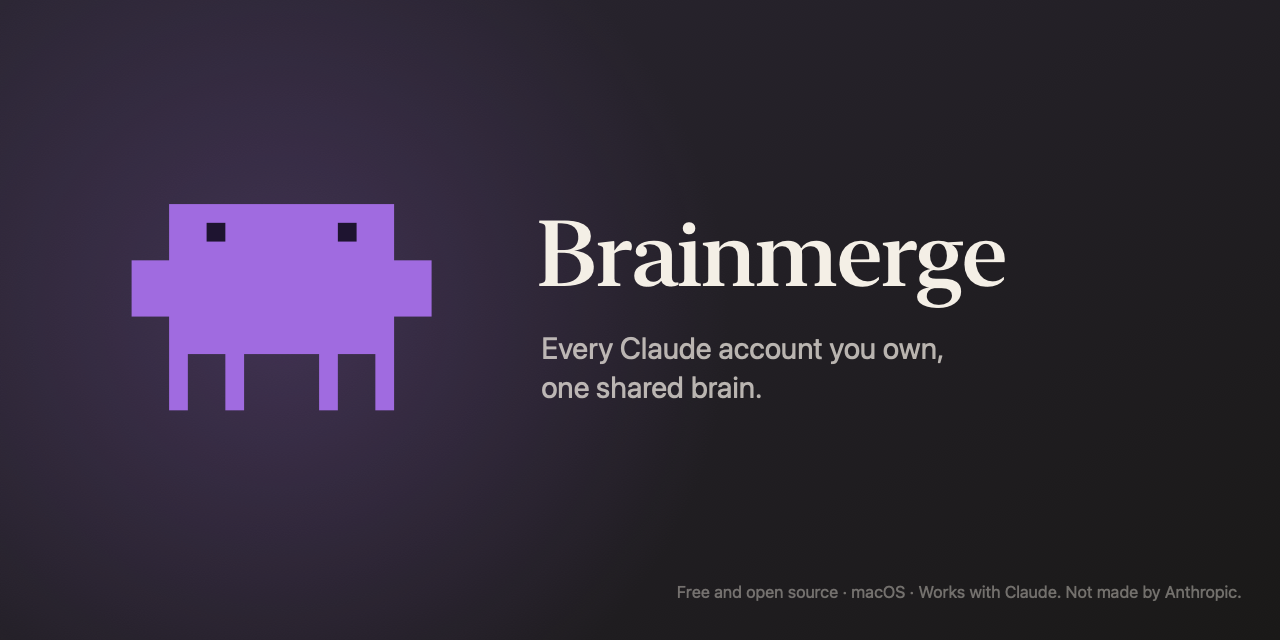
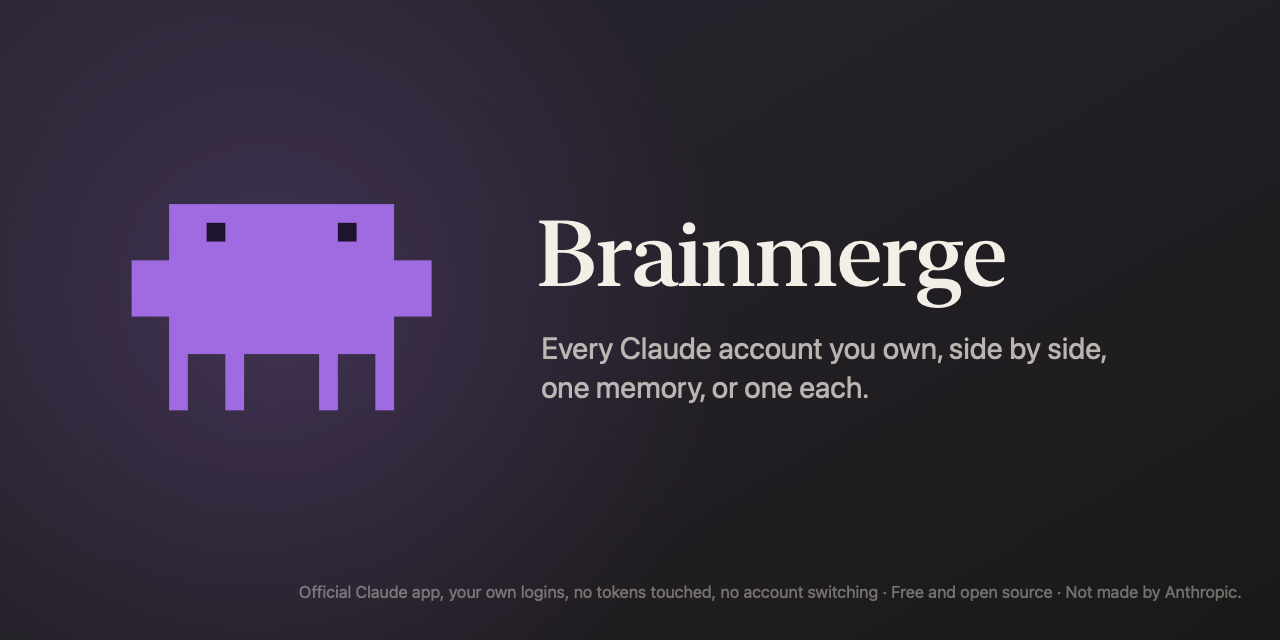
Security pass: guard tests that keep the tree free of networking, shells and credential reads; names kept to one clean line everywhere; a launcher that only starts Claude; no copy of a Claude with a broken signature; Dependabot and read-only CI; SECURITY.md that says what the app touches; a trust se

Changed region(s): [[0.2188, 0.9062, 0.8438, 0.9375], [0.4688, 0.5938, 0.6875, 0.625], [0.7188, 0.5312, 0.875, 0.5625]]

diff --git a/Packages/BrainmergeCore/Sources/BrainmergeCore/Identity/IdentityManager.swift b/Packages/BrainmergeCore/Sources/BrainmergeCore/Identity/IdentityManager.swift
@@ -59,18 +59,20 @@ public final class IdentityManager: @unchecked Sendable {
     public func add(_ request: AddRequest) throws -> Identity {
         var state = try store.load()
         _ = try configuredBrain(state)
-        try ensureNameAvailable(request.name, excluding: nil, in: state)
+        let name = NameRules.clean(request.name)
+        guard !name.isEmpty else { throw BrainmergeError.nameInvalid }
+        try ensureNameAvailable(name, excluding: nil, in: state)
         if let id = request.brain, state.brain(id: id) == nil { throw BrainmergeError.brainUnknown(id) }
         let claude = try ClaudeApp.detect(at: claudeAppURL)
-        var identity = Identity(slug: IdentitySlug.make(from: request.name, taken: state.takenSlugs),
-                                name: request.name, tint: request.tint, logoPath: request.logo?.path, note: request.note,
+        var identity = Identity(slug: IdentitySlug.make(from: name, taken: state.takenSlugs),
+                                name: name, tint: request.tint, logoPath: request.logo?.path, note: request.note.map(NameRules.clean),
                                 surfaces: request.surfaces, iconMode: request.iconMode,
                                 sharedHistory: request.sharedHistory,
                                 cliProfilePath: request.adoptCLIProfile?.path,
                                 desktopDataPath: request.adoptDesktopData?.path,
                                 brain: request.brain)
         if request.ownBrain {
-            identity.brain = try addBrain(name: request.name, path: nil, language: state.brainLanguage, in: &state).id
+            identity.brain = try addBrain(name: name, path: nil, language: state.brainLanguage, in: &state).id
         }
 
         // The CLI profile also serves the Desktop app's Code tab: it always exists.
@@ -96,7 +98,11 @@ public final class IdentityManager: @unchecked Sendable {
     public func update(slug: String, name: String?, tint: Tint?, logo: URL?, note: String? = nil, iconMode: IconMode? = nil, clearLogo: Bool = false) throws -> Identity {
         var state = try store.load()
         guard var identity = state.identity(slug: slug) else { throw BrainmergeError.identityNotFound(slug) }
-        if let name { try ensureNameAvailable(name, excluding: slug, in: state) }
+        let name = name.map(NameRules.clean)
+        if let name {
+            guard !name.isEmpty else { throw BrainmergeError.nameInvalid }
+            try ensureNameAvailable(name, excluding: slug, in: state)
+        }
         try ensureStopped(identity)
         let fm = FileManager.default
         let oldName = identity.bundleDisplayName
@@ -104,7 +110,7 @@ public final class IdentityManager: @unchecked Sendable {
         if let tint { identity.tint = tint }
         if let logo { identity.logoPath = logo.path }
         if clearLogo { identity.logoPath = nil }
-        if let note { identity.note = note }
+        if let note { identity.note = NameRules.clean(note) }
         if let iconMode { identity.iconMode = iconMode }
         try attachBrain(to: identity, state: state)
         if identity.surfaces.desktop, !identity.isPrimary {
@@ -190,7 +196,7 @@ public final class IdentityManager: @unchecked Sendable {
     }
 
     func addBrain(name: String, path: URL?, language: BrainLanguage, in state: inout AppState) throws -> MemoryFolder {
-        let clean = name.trimmingCharacters(in: .whitespaces)
+        let clean = NameRules.clean(name)
         if clean.isEmpty { throw BrainmergeError.brainNameEmpty }
         if let taken = state.brains.first(where: { $0.name.caseInsensitiveCompare(clean) == .orderedSame }) {
             throw BrainmergeError.brainNameTaken(taken.name)
@@ -218,7 +224,7 @@ public final class IdentityManager: @unchecked Sendable {
     public func renameBrain(id: String, name: String) throws {
         var state = try store.load()
         guard let index = state.brains.firstIndex(where: { $0.id == id }) else { throw BrainmergeError.brainUnknown(id) }
-        let clean = name.trimmingCharacters(in: .whitespaces)
+        let clean = NameRules.clean(name)
         if clean.isEmpty { throw BrainmergeError.brainNameEmpty }
         if let taken = state.brains.first(where: { $0.id != id && $0.name.caseInsensitiveCompare(clean) == .orderedSame }) {
             throw BrainmergeError.brainNameTaken(taken.name)

diff --git a/Packages/BrainmergeCore/Tests/BrainmergeCoreTests/SecurityGuardTests.swift b/Packages/BrainmergeCore/Tests/BrainmergeCoreTests/SecurityGuardTests.swift
@@ -1,0 +1,63 @@
+import Foundation
+import Testing
+@testable import BrainmergeCore
+
+/// The promises of the README, enforced on the source tree: no network, no shell interpreter, no reading of
+/// Claude's credential stores, one place that runs processes. A failure here is a broken promise, not a style nit.
+@Suite struct SecurityGuardTests {
+    static let repo = URL(fileURLWithPath: #filePath).deletingLastPathComponent().deletingLastPathComponent()
+        .deletingLastPathComponent().deletingLastPathComponent().deletingLastPathComponent()
+    /// The shipped code: the core, the command line, the launcher, the app. Test fakes (BrainmergeTestSupport) are not shipped.
+    static let roots = ["Packages/BrainmergeCore/Sources/BrainmergeCore", "Packages/BrainmergeCore/Sources/brainmerge",
+                        "Packages/BrainmergeCore/Sources/launcher", "Packages/BrainmergeUI/Sources", "App"].map { repo.appending(path: $0) }
+
+    static func sources() throws -> [(URL, String)] {
+        var files: [(URL, String)] = []
+        for root in roots {
+            guard let enumerator = FileManager.default.enumerator(at: root, includingPropertiesForKeys: nil) else { continue }
+            for case let url as URL in enumerator where url.pathExtension == "swift" {
+                files.append((url, try String(contentsOf: url, encoding: .utf8)))
+            }
+        }
+        #expect(files.count > 40, "the scan must see the whole tree")
+        return files
+    }
+
+    func offenders(_ patterns: [String], except allowed: Set<String> = []) throws -> [String] {
+        var found: [String] = []
+        for (url, text) in try Self.sources() where !allowed.contains(url.lastPathComponent) {
+            for (number, line) in text.split(separator: "\n", omittingEmptySubsequences: false).enumerated()
+            where patterns.contains(where: { line.contains($0) }) && !line.trimmingCharacters(in: .whitespaces).hasPrefix("//") {
+                found.append("\(url.lastPathComponent):\(number + 1): \(line.trimmingCharacters(in: .whitespaces).prefix(80))")
+            }
+        }
+        return found
+    }
+
+    @Test func noNetworkCode() throws {
+        let hits = try offenders(["URLSession", "NWConnection", "import Network", "CFNetwork", "NSURLConnection", "URLProtocol", "WebSocket"])
+        #expect(hits.isEmpty, "\(hits)")
+    }
+
+    @Test func noShellInterpreterAndOneProcessRunner() throws {
+        let shells = try offenders(["/bin/sh", "/bin/bash", "/bin/zsh", "NSAppleScript", "osascript", "system(\"", "popen("])
+        #expect(shells.isEmpty, "\(shells)")
+        let processes = try offenders(["Process()", "NSTask", "posix_spawn"], except: ["Shell.swift"])
+        #expect(processes.isEmpty, "\(processes)")
+    }
+
+    @Test func credentialStoresAreNamedNeverRead() throws {
+        // Only DesktopSession may mention Claude's storage files, and it may only test their presence.
+        let mentions = try offenders(["\"Cookies\"", "Local Storage", "IndexedDB", "Session Storage", "SecItemCopyMatching", "SecKeychain", ".credentials.json", "sessionKey"], except: ["DesktopSession.swift"])
+        #expect(mentions.isEmpty, "\(mentions)")
+        let session = try #require(try Self.sources().first { $0.0.lastPathComponent == "DesktopSession.swift" }).1
+        for forbidden in ["Data(contentsOf", "String(contentsOf", "FileHandle", "contents(atPath", "InputStream"] {
+            #expect(!session.contains(forbidden), "DesktopSession must not read file contents: \(forbidden)")
+        }
+    }
+
+    @Test func noTelemetryOrAnalytics() throws {
+        let hits = try offenders(["Analytics", "Telemetry", "Sentry", "Crashlytics", "Firebase", "Mixpanel"])
+        #expect(hits.isEmpty, "\(hits)")
+    }
+}

diff --git a/Packages/BrainmergeCore/Tests/BrainmergeCoreTests/LauncherBuilderTests.swift b/Packages/BrainmergeCore/Tests/BrainmergeCoreTests/LauncherBuilderTests.swift
@@ -54,4 +54,24 @@ import BrainmergeTestSupport
         #expect(try JSONDecoder().decode(LauncherConfig.self, from: data).claudeExecutable == claude2.executable.path)
         #expect(try FileManager.default.contentsOfDirectory(atPath: home.paths.launchersDir.path) == ["Client.app"])
     }
+
+    @Test func launcherRefusesToStartAnythingButClaude() throws {
+        let home = try TempHome(); defer { home.remove() }
+        let claude = try FakeClaudeApp.make(in: home.url)
+        let identity = Identity(slug: "client", name: "Client")
+        let app = try LauncherBuilder(paths: home.paths, launcherBinary: Products.launcher)
+            .build(for: identity, claude: claude, icon: nil, register: false)
+        // Someone rewrites the launcher's config to point at another program: the launcher says no.
+        let config = LauncherConfig(configDir: home.paths.cliProfile(slug: "client", isPrimary: false).path,
+                                    dataDir: home.paths.desktopData(slug: "client", isPrimary: false).path,
+                                    claudeExecutable: "/bin/echo")
+        try JSONEncoder().encode(config).write(to: app.appending(path: "Contents/Resources/brainmerge.json"), options: .atomic)
+        let result = try Shell().run(app.appending(path: "Contents/MacOS/launcher").path, [])
+        #expect(result.status == 3)
+        #expect(result.stderr.contains("only starts Claude"))
+        // Relative folders are refused as well.
+        let relative = LauncherConfig(configDir: "../elsewhere", dataDir: config.dataDir, claudeExecutable: claude.executable.path)
+        try JSONEncoder().encode(relative).write(to: app.appending(path: "Contents/Resources/brainmerge.json"), options: .atomic)
+        #expect(try Shell().run(app.appending(path: "Contents/MacOS/launcher").path, []).status == 3)
+    }
 }

diff --git a/Packages/BrainmergeCore/Tests/BrainmergeCoreTests/NameRulesTests.swift b/Packages/BrainmergeCore/Tests/BrainmergeCoreTests/NameRulesTests.swift
@@ -1,0 +1,28 @@
+import Foundation
+import Testing
+import BrainmergeTestSupport
+@testable import BrainmergeCore
+
+/// Names end up in file names, plists, git authors and Claude's instructions: one line, no control characters, bounded.
+@Suite struct NameRulesTests {
+    @Test func namesAreOneCleanLine() {
+        #expect(NameRules.clean("  Work\nAccount  ") == "Work Account")
+        #expect(NameRules.clean("Tab\there\u{0}") == "Tab here")
+        #expect(NameRules.clean("...Hidden") == "Hidden")
+        #expect(NameRules.clean(String(repeating: "a", count: 100)).count == NameRules.maxLength)
+        #expect(NameRules.clean("Élodie et Cie") == "Élodie et Cie")
+        #expect(NameRules.clean(" \n ").isEmpty)
+    }
+
+    @Test func theManagerCleansAndRefusesEmptyNames() throws {
+        let e = try ManagerEnv.make(); defer { e.home.remove() }
+        _ = try e.manager.adoptPrimary(name: "Perso")
+        #expect(throws: BrainmergeError.nameInvalid) { try e.manager.add(IdentityManager.AddRequest(name: " \n ")) }
+        let identity = try e.manager.add(IdentityManager.AddRequest(name: "Work\nStudio"))
+        #expect(identity.name == "Work Studio" && identity.slug == "work-studio")
+        #expect(FileManager.default.fileExists(atPath: e.home.paths.launcherApp(name: "Work Studio").path))
+        #expect(throws: BrainmergeError.nameInvalid) { try e.manager.update(slug: identity.slug, name: "  ", tint: nil, logo: nil) }
+        let folder = try e.manager.addBrain(name: " Client\r\nNotes ", path: nil, language: .en)
+        #expect(folder.name == "Client Notes" && folder.id == "client-notes")
+    }
+}

diff --git a/scripts/make-brand.swift b/scripts/make-brand.swift
@@ -89,10 +89,10 @@ func drawBanner(_ r: NSRect, creatureSize: CGFloat, title: CGFloat, tagline: CGF
     let x = r.width * 0.42
     let titleFont = serif(title)
     text("Brainmerge", font: titleFont, color: cream, at: NSPoint(x: x, y: r.midY + r.height * 0.02))
-    text("Every Claude account you own,", font: NSFont.systemFont(ofSize: tagline), color: cream.withAlphaComponent(0.72), at: NSPoint(x: x + 4, y: r.midY - tagline * 1.5))
-    text("one shared brain.", font: NSFont.systemFont(ofSize: tagline), color: cream.withAlphaComponent(0.72), at: NSPoint(x: x + 4, y: r.midY - tagline * 2.8))
+    text("Every Claude account you own, side by side,", font: NSFont.systemFont(ofSize: tagline), color: cream.withAlphaComponent(0.72), at: NSPoint(x: x + 4, y: r.midY - tagline * 1.5))
+    text("one memory, or one each.", font: NSFont.systemFont(ofSize: tagline), color: cream.withAlphaComponent(0.72), at: NSPoint(x: x + 4, y: r.midY - tagline * 2.8))
     let small = NSFont.systemFont(ofSize: tagline * 0.55)
-    let note = "Free and open source · macOS · Works with Claude. Not made by Anthropic."
+    let note = "Official Claude app, your own logins, no tokens touched, no account switching · Free and open source · Not made by Anthropic."
     text(note, font: small, color: cream.withAlphaComponent(0.4), at: NSPoint(x: r.width - textWidth(note, font: small) - r.height * 0.06, y: r.height * 0.06))
 }
 try save(bitmap(1280, 640) { r in drawBanner(r, creatureSize: 300, title: 92, tagline: 30) }, "docs/brand/banner-1280x640.png")

diff --git a/Packages/BrainmergeCore/Tests/BrainmergeCoreTests/TintedCloneBuilderTests.swift b/Packages/BrainmergeCore/Tests/BrainmergeCoreTests/TintedCloneBuilderTests.swift
@@ -43,4 +43,19 @@ import BrainmergeTestSupport
         _ = try builder.build(for: identity, claude: claude, icon: icon, register: false)
         #expect(try FileManager.default.contentsOfDirectory(atPath: home.paths.launchersDir.path) == ["Client (Claude).app"])
     }
+
+    @Test func aClaudeWithABrokenSignatureIsNeverCopied() throws {
+        let home = try TempHome(); defer { home.remove() }
+        let claude = try FakeClaudeApp.make(in: home.url)
+        // Signed, then tampered with: the signature no longer matches the binary.
+        try Shell().check("/usr/bin/codesign", ["--force", "--sign", "-", claude.url.path])
+        let handle = try FileHandle(forWritingTo: claude.executable)
+        try handle.seekToEnd(); handle.write(Data("\n# tampered\n".utf8)); try handle.close()
+        let builder = TintedCloneBuilder(paths: home.paths, launcherBinary: Products.launcher)
+        let icon = try FakeIcon.orangePNG(in: home.url)
+        #expect(throws: BrainmergeError.claudeAppTampered(claude.url.path)) {
+            try builder.build(for: Identity(slug: "client", name: "Client"), claude: claude, icon: icon, register: false)
+        }
+        #expect(!FileManager.default.fileExists(atPath: home.paths.tintedClone(name: "Client").path))
+    }
 }

diff --git a/Packages/BrainmergeCore/Sources/launcher/main.swift b/Packages/BrainmergeCore/Sources/launcher/main.swift
@@ -18,6 +18,15 @@ guard let data = try? Data(contentsOf: configURL),
     exit(2)
 }
 
+// This launcher starts Claude and nothing else: the executable must be a Claude binary inside an app bundle,
+// and the folders must be absolute. A rewritten config cannot turn it into a launcher for another program.
+let claudeBinary = config.claudeExecutable.hasSuffix("/Contents/MacOS/Claude") || config.claudeExecutable.hasSuffix("/Contents/MacOS/Claude-bin")
+guard config.claudeExecutable.hasPrefix("/"), claudeBinary, config.configDir.hasPrefix("/"), config.dataDir.hasPrefix("/"),
+      !config.configDir.contains("/../"), !config.dataDir.contains("/../"), !config.claudeExecutable.contains("/../") else {
+    FileHandle.standardError.write(Data("brainmerge launcher: this launcher only starts Claude; refusing \(config.claudeExecutable) with \(config.configDir) and \(config.dataDir)\n".utf8))
+    exit(3)
+}
+
 setenv("CLAUDE_CONFIG_DIR", config.configDir, 1)
 let arguments = [config.claudeExecutable, "--user-data-dir=\(config.dataDir)"] + CommandLine.arguments.dropFirst()
 let cArguments: [UnsafeMutablePointer<CChar>?] = arguments.map { strdup($0) } + [nil]

diff --git a/Packages/BrainmergeCore/Sources/BrainmergeCore/Model/NameRules.swift b/Packages/BrainmergeCore/Sources/BrainmergeCore/Model/NameRules.swift
@@ -1,0 +1,22 @@
+import Foundation
+
+/// Names of accounts and memories end up in file names, plists, git authors and Claude's instructions:
+/// they are kept to one clean line, without control characters, of bounded length, never starting with a dot.
+public enum NameRules {
+    public static let maxLength = 60
+
+    public static func clean(_ raw: String) -> String {
+        let spaced = raw.unicodeScalars.map { scalar -> Character in
+            CharacterSet.controlCharacters.contains(scalar) || CharacterSet.newlines.contains(scalar) ? " " : Character(scalar)
+        }
+        var words = String(spaced).split(whereSeparator: \.isWhitespace).map(String.init)
+        var name = words.joined(separator: " ")
+        while name.hasPrefix(".") { name.removeFirst() }
+        if name.count > maxLength {
+            name = String(name.prefix(maxLength))
+            words = name.split(whereSeparator: \.isWhitespace).map(String.init)
+            name = words.joined(separator: " ")
+        }
+        return name.trimmingCharacters(in: .whitespaces)
+    }
+}

diff --git a/Packages/BrainmergeCore/Sources/BrainmergeCore/Model/BrainmergeError.swift b/Packages/BrainmergeCore/Sources/BrainmergeCore/Model/BrainmergeError.swift
@@ -23,6 +23,8 @@ public enum BrainmergeError: Error, Equatable, CustomStringConvertible {
     case brainNameTaken(String)
     case brainNameEmpty
     case brainFolderInUse(String)
+    case nameInvalid
+    case claudeAppTampered(String)
 
     public var description: String {
         switch self {
@@ -48,6 +50,8 @@ public enum BrainmergeError: Error, Equatable, CustomStringConvertible {
         case .brainNameTaken(let n): return "A memory named \(n) already exists. Choose another name."
         case .brainNameEmpty: return "Give the memory a name."
         case .brainFolderInUse(let p): return "The folder \(p) is already one of your memories."
+        case .nameInvalid: return "Give it a name: one line, letters and numbers, up to \(NameRules.maxLength) characters."
+        case .claudeAppTampered(let p): return "The signature of \(p) does not match its files. Reinstall Claude before making a copy of it."
         }
     }
 }

diff --git a/Packages/BrainmergeUI/Sources/BrainmergeUI/Model/AppModel.swift b/Packages/BrainmergeUI/Sources/BrainmergeUI/Model/AppModel.swift
@@ -645,6 +645,10 @@ public final class AppModel {
             return UserMessage(title: "That memory is gone", detail: "It is no longer in the list. Pick another one.")
         case .brainNameTaken(let name):
             return UserMessage(title: "Name already used", detail: "There is already a memory called \(name). Pick another name.")
+        case .nameInvalid:
+            return UserMessage(title: "Give it a name", detail: "One line, up to \(NameRules.maxLength) characters.")
+        case .claudeAppTampered:
+            return UserMessage(title: "Claude's signature is broken", detail: "The Claude app on this Mac does not match its own signature, so Brainmerge will not copy it. Reinstall Claude from claude.ai/download, then try again.", action: .getClaude, actionLabel: "Get Claude")
         default:
             return UserMessage(title: "Something went wrong", detail: "\(e.description)")
         }

diff --git a/Packages/BrainmergeCore/Sources/BrainmergeCore/Identity/TintedCloneBuilder.swift b/Packages/BrainmergeCore/Sources/BrainmergeCore/Identity/TintedCloneBuilder.swift
@@ -16,6 +16,11 @@ public struct TintedCloneBuilder: Sendable {
     @discardableResult
     public func build(for identity: Identity, claude: ClaudeApp, icon: URL, register: Bool = true) throws -> URL {
         let fm = FileManager.default
+        // A signed Claude whose signature no longer matches its files is never copied: it is not Claude any more.
+        if try shell.run("/usr/bin/codesign", ["-d", claude.url.path]).status == 0,
+           try shell.run("/usr/bin/codesign", ["--verify", "--deep", "--strict", claude.url.path]).status != 0 {
+            throw BrainmergeError.claudeAppTampered(claude.url.path)
+        }
         let app = paths.tintedClone(name: identity.bundleDisplayName)
         try fm.createDirectory(at: paths.launchersDir, withIntermediateDirectories: true)
         if fm.fileExists(atPath: app.path) { try fm.removeItem(at: app) }

diff --git a/Packages/BrainmergeUI/Sources/BrainmergeUI/Model/AccountEdit.swift b/Packages/BrainmergeUI/Sources/BrainmergeUI/Model/AccountEdit.swift
@@ -21,8 +21,8 @@ public struct AccountEdit: Equatable, Sendable {
         self.memory = memory
     }
 
-    var trimmedName: String { name.trimmingCharacters(in: .whitespacesAndNewlines) }
-    var trimmedNote: String { note.trimmingCharacters(in: .whitespaces) }
+    var trimmedName: String { NameRules.clean(name) }
+    var trimmedNote: String { NameRules.clean(note) }
 
     /// A name is required and must not clash with another account's.
     public func validate(existing: [Identity]) -> String? {
